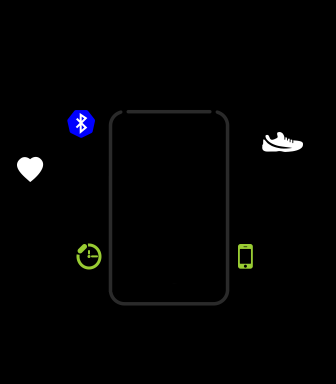
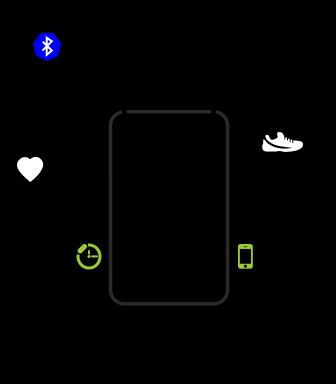
preparations for editable widgets experiment

Changed region(s): [[0.1786, 0.2812, 0.2976, 0.375], [0.0893, 0.0625, 0.1786, 0.1562]]

diff --git a/watchface/gts4mini/index.js b/watchface/gts4mini/index.js
@@ -28,18 +28,21 @@ import {
     PHONE_BATTERY_TEXT,
     WATCH_BATTERY_TEXT,
     TIME_AM_PM,
-    TREATMENT_TEXT,
+    // TREATMENT_TEXT,
     WEEK_DAYS,
-    //TREATMENT_TIME_TEXT,
+    // TREATMENT_TIME_TEXT,
     AAPS_TEXT,
-    AAPS_TIME_TEXT
+    AAPS_TIME_TEXT,
+    // EDIT_GROUP_LEFT,
+    // EDIT_MASK_70,
+    // EDIT_MASK_100
 } from "./styles";
 import {BG_FILL_RECT, BG_IMG} from "../../utils/config/styles_global";
 import {PROGRESS_ANGLE_INC, PROGRESS_UPDATE_INTERVAL_MS, TEST_DATA} from "../../utils/config/constants";
 
 let imgBg, digitalClockHour, digitalClockMinutes, timeAM_PM, digitalClockSeparator, /* secondsPointer,*/ btDisconnected,
     normalHeartRateTextImg, normalStepsTextImg, /* normalDistTextImg, */ weekImg, dateDayImg, /* batteryCircleArc, paiCircleArc, */
-    screenType;
+    screenType /*, editGroupLeft, mask, maskCover */;
 let bgValTextWidget, bgValTextImgWidget, bgValTimeTextWidget, bgDeltaTextWidget, bgTrendImageWidget, bgStaleLine,
     phoneBattery, watchBattery, /* iob, treatment, */ bgStatusLow, bgStatusOk, bgStatusHight, progress, aapsText, aapsTimeText;
 
@@ -122,6 +125,24 @@ WatchFace({
 
         // batteryCircleArc = hmUI.createWidget(hmUI.widget.ARC, BATTERY_ARC);
         // paiCircleArc = hmUI.createWidget(hmUI.widget.ARC, PAI_ARC);
+
+        /*
+        // Editable Components Init
+        // 100% edit mask
+        maskCover = hmUI.createWidget(hmUI.widget.WATCHFACE_EDIT_MASK, EDIT_MASK_100);
+        //70% edit mask
+        mask = hmUI.createWidget(hmUI.widget.WATCHFACE_EDIT_FG_MASK, EDIT_MASK_70);
+        // Left editable widget
+        editGroupLeft = hmUI.createWidget(hmUI.widget.WATCHFACE_EDIT_GROUP, EDIT_GROUP_LEFT)
+        const editLeftType = editGroupLeft.getProperty(hmUI.prop.CURRENT_TYPE);
+        switch (editLeftType) {
+            case hmUI.data_type.HEART:
+                //this.drawHeartWidget(EDIT_GROUP_LEFT.x, EDIT_GROUP_LEFT.y);
+                break
+            case hmUI.data_type.STEP:
+                break
+        };
+        */
 
         const battery = hmSensor.createSensor(hmSensor.id.BATTERY);
         battery.addEventListener(hmSensor.event.CHANGE, function () {

diff --git a/watchface/gts4mini/styles.js b/watchface/gts4mini/styles.js
@@ -312,8 +312,8 @@ export const BG_STATUS_HIGHT_IMG = {
 };
 
 export const IMG_STATUS_BT_DISCONNECTED = {
-    x: px(66),
-    y: px(107),
+    x: px(30),
+    y: px(30),
     src: img('status/bt_disconnect.png'),
     type: hmUI.system_status.DISCONNECT,
     show_level: hmUI.show_level.ONLY_NORMAL,
@@ -328,3 +328,52 @@ export const IMG_LOADING_PROGRESS = {
     center_y: 20,
     visible: false,
 };
+
+/*
+export const EDIT_GROUP_LEFT = {
+    edit_id: 101,
+    x: 12,
+    y: 115,
+    w: 85,
+    h: 85,
+    select_image: img('mask/select.png'),
+    un_select_image: img('mask/select.png'),
+    default_type: hmUI.edit_type.HEART,
+    optional_types: [
+        {
+            type: hmUI.edit_type.HEART,
+            preview: img('preview/heart.png')
+        },
+        {
+            type: hmUI.edit_type.STEP,
+            preview: img('preview/steps.png')
+        }
+    ],
+    count: 1,
+    tips_BG: img('mask/text_tag.png'),
+    tips_x: 31 - x,
+    tips_y: 79 - y,
+    tips_width: 110
+    //tips_margin: 10 // optional, default value: 0
+};
+
+// 100% edit mask
+export const EDIT_MASK_100 = {
+    x: 0,
+    y: 0,
+    w: 336,
+    h: 384,
+    src: img('mask/mask100.png'),
+    show_level: hmUI.show_level.ONLY_EDIT
+};
+
+// 70% edit mask
+export const EDIT_MASK_70 = {
+    x: 0,
+    y: 0,
+    w: 336,
+    h: 384,
+    src: img('mask/mask70.png'),
+    show_level: hmUI.show_level.ONLY_EDIT
+};
+*/
